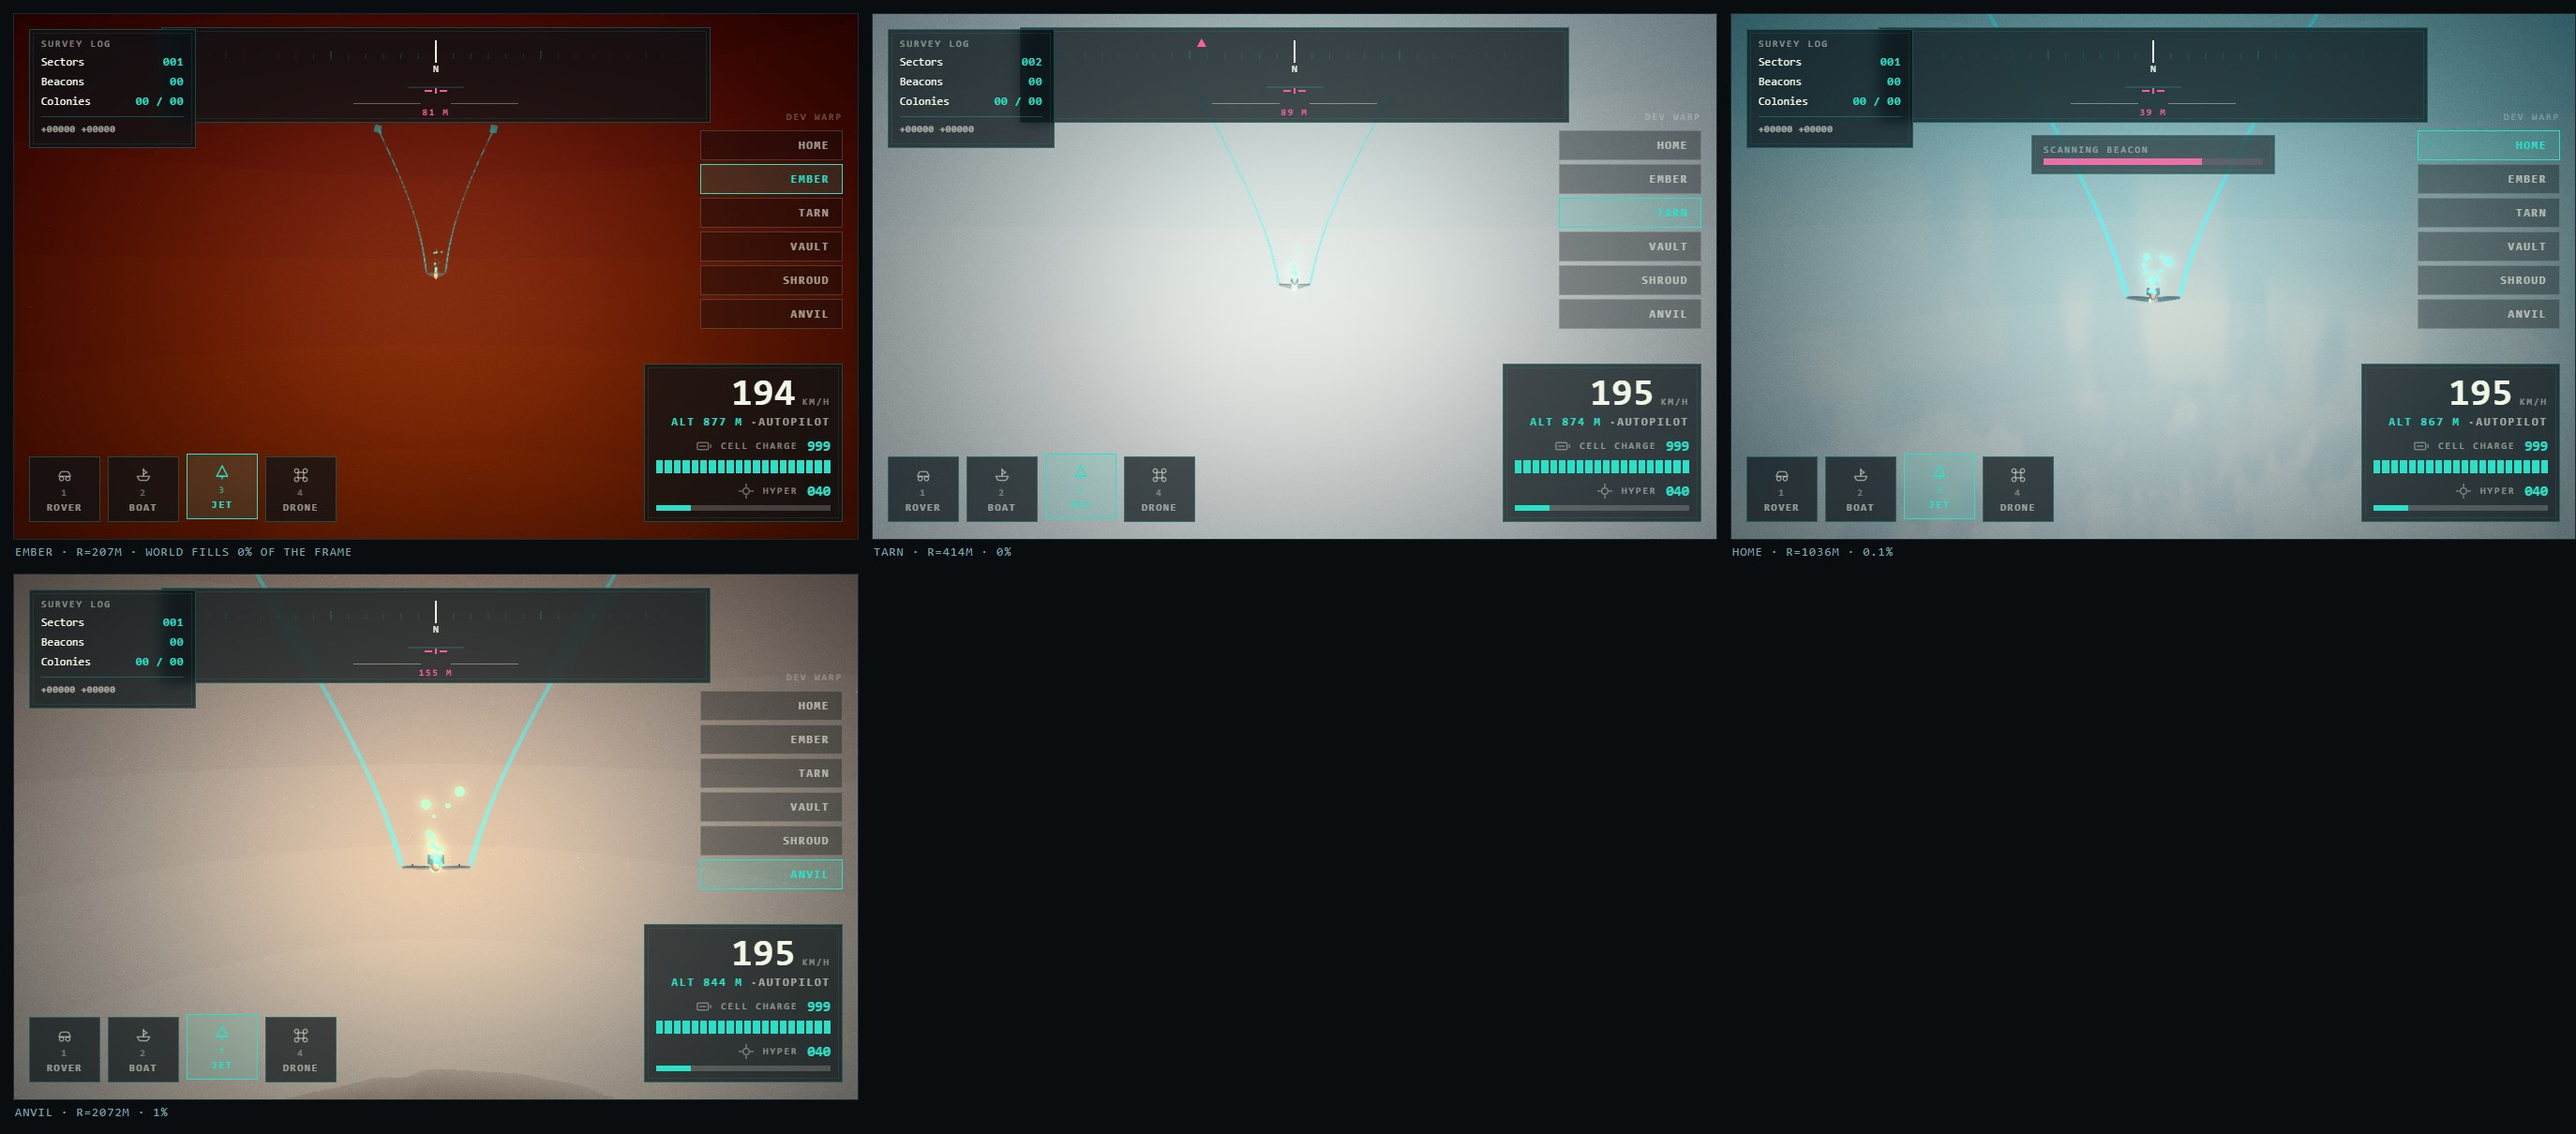
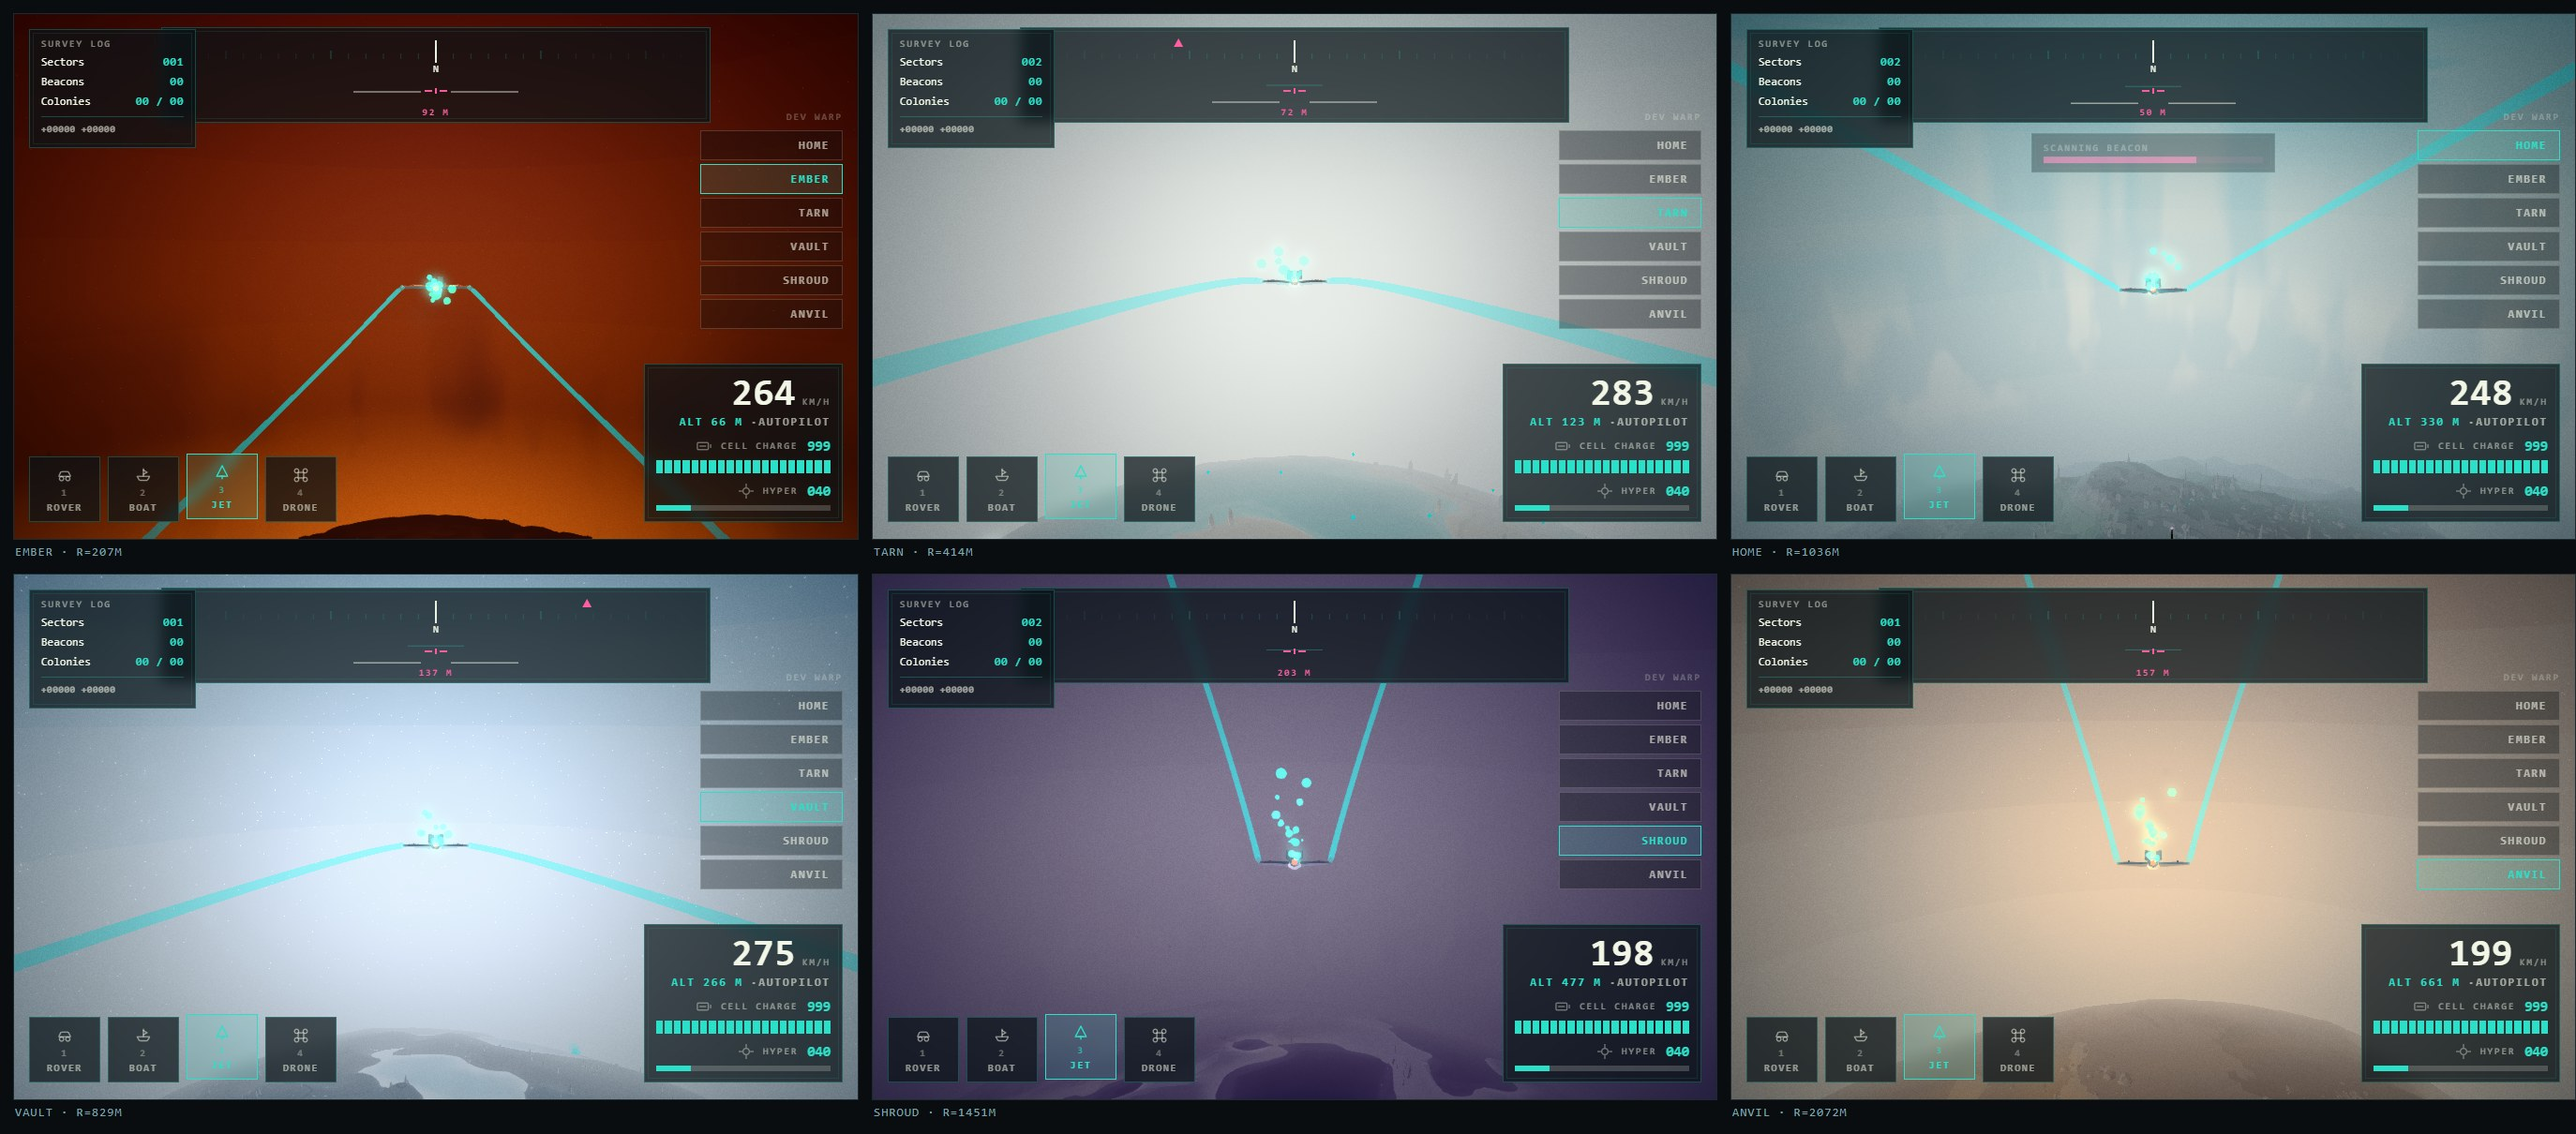
Surveyor: the arrival puts the world in the frame
Spans: <root>, games/surveyor - the fifth instance goes in the CLAUDE.md table
with the other four.

The seat numbers set this: the destination filled 0% to 1% of the frame on a
world you had crossed a solar system to reach. Ember 0%, Tarn 0%, Home 0.1%,
Anvil 1%. What an arrival handed you was sky, your own craft and a readout.

IT IS THE SAME CONSTANT, A FIFTH TIME. With the chase camera looking along the
flight path, a world's limb enters the view at 0.41 to 0.42 radii of altitude -
and it is 0.41 to 0.42 on all six, which is what a scale-free answer looks like.
HYPER.approachAlt is 900m absolute: 0.43 radii on Anvil, 4.35 on Ember. Anvil
arrived with the world just in shot and Ember arrived pointing at empty sky.

THE TWO ALTITUDES WERE NEVER THE SAME THING. The departure boundary has to sit
above the jet's unassisted ceiling so that leaving a world is deliberate, and
that ceiling is in metres for an absolute reason. Where the craft is PUT DOWN
afterwards answers to how big the world looks, which is radii. They only ever
shared a value. ARRIVE.alt is 0.35 radii and is always at or below where the
approach sphere was crossed, so nothing is placed higher than it arrived: 72m on
Ember against 900, 725m on Anvil.

AND THE NOSE IS AIMED RATHER THAN LEVELLED. landOn handed back a flat pitch of
0.10 - a stand-up out of the radial dive the craft actually arrived on, which is
the 84-degree seam phase 3 measured and left. The dive is derived now: the limb
[…]

diff --git a/games/surveyor/js/player/craft.js b/games/surveyor/js/player/craft.js
@@ -12,7 +12,7 @@ import { iceHolds, iceRide } from '../world/water.js';
 import { bodies, advance, steer, pickTarget, centreOf } from '../world/hyper.js';
 import { TransitFrame, landingYaw } from '../world/gravity.js';
 import { ROVER, BOAT, JET, DRONE, FUEL, WORLD, HOP, WHEEL, SUSP, HYPER,
-         AIR, PARACHUTE, SKID } from '../tune.js';
+         AIR, PARACHUTE, SKID, ARRIVE, CAM } from '../tune.js';
 import { emit } from '../core/events.js';
 
 const clamp = (v, a, b) => (v < a ? a : v > b ? b : v);
@@ -470,7 +470,10 @@ export class Craft {
       emit('hyperarrive', {
         key: b.key,
         dir: { x: dx / l, y: dy / l, z: dz / l },
-        alt: HYPER.approachAlt,
+        /* Handed back in RADII, not in metres - see ARRIVE.alt. The
+           sphere was crossed at approachAlt and this is at or below it on
+           every world, so nothing is ever placed higher than it arrived. */
+        alt: Math.min(HYPER.approachAlt, b.radius * ARRIVE.alt),
         speed: this.speed,
       });
     }
@@ -534,11 +537,39 @@ export class Craft {
     this.hyper = null;
     this.hyperT = 0;
     this.bodies = null;
-    this.pos.set(0, alt === undefined ? HYPER.approachAlt : alt, 0);
+    const arriveAlt = alt === undefined ? HYPER.approachAlt : alt;
+    this.pos.set(0, arriveAlt, 0);
     this.speedScalar = Math.min(this.speedScalar, JET.maxSpeed);
     this.speed = this.speedScalar;
     this.vel.set(0, 0, 0);
-    this.pitch = 0.10;
+
+    /* FACING THE WORLD YOU FLEW TO, and this is the point of the whole phase.
+       This used to be a flat `pitch = 0.10`: a stand-up out of the radial dive
+       the craft actually arrived on, so that nobody was handed a nose-down
+       first second on a world they had never seen. It cost the world.
+       Measured from the seat — the chase camera untouched, three quarters of a
+       second after landOn — the destination filled 0% of the frame on Ember
+       and Tarn, 0.1% on Home and 1% on Anvil. At 880m, nose level, the planet
+       is at your NADIR and the boom looks along your heading, so you crossed a
+       solar system and arrived looking at empty sky.
+
+       So the dive is kept, and how much of it is geometry rather than taste:
+       the limb sits (90 degrees - the planet's angular radius) below level, and
+       the view reaches half a field of view past its axis, so the nose has to
+       be down by the difference for the world to be in frame at all. That is
+       15.9 degrees on Anvil and 49.1 on Ember — the same spread as everything
+       else here, and the reason a single number could not have worked.
+       ARRIVE.margin puts it comfortably in rather than just inside the edge,
+       and ARRIVE.maxDive is the ceiling on how steep an arrival is allowed to
+       be however small the world.
+
+       Nothing else has to change to recover it: `assist` below is the autopilot
+       that already exists for exactly this, and it levels the craft out over
+       its own time constant while the world falls away down the frame. */
+    const P = surface.planet;
+    const angR = Math.asin(clamp(P.surfaceR / (P.surfaceR + arriveAlt), -1, 1));
+    this.pitch = clamp((Math.PI / 2 - angR) - CAM.fov.jet * 0.5 + ARRIVE.margin,
+      0.10, ARRIVE.maxDive);
     this.roll = 0;
     this.glide = false;
     this.airborne = false;

diff --git a/games/surveyor/js/tune.js b/games/surveyor/js/tune.js
@@ -1234,6 +1234,48 @@ export const HYPER = {
 };
 
 /**
+ * ARRIVING, as a thing you can see.
+ *
+ * The nose-down angle a hyper arrival hands back is DERIVED, not stated: the
+ * planet's limb sits (90 degrees - its angular radius) below level, and the
+ * view reaches half a field of view past its axis, so the difference is what
+ * it takes to have the world in frame at all. That is 15.9 degrees on Anvil
+ * and 49.1 on Ember. See Craft.landOn. These two are the taste either side of
+ * that geometry.
+ */
+export const ARRIVE = {
+  /* WHERE YOU ARE HANDED BACK, in radii, and this is the fix for the arrival
+     showing you nothing.
+
+     It used to be HYPER.approachAlt - 900 metres, absolute, shared with the
+     departure boundary. Measured: with the chase camera looking along the
+     flight path, a world's limb enters the view at 0.41 to 0.42 radii of
+     altitude, and it is 0.41-0.42 on ALL SIX, which is what a scale-free
+     answer looks like. 900m is 0.43 radii on Anvil and 4.35 on Ember, so
+     Anvil arrived with the world just in shot and Ember arrived pointing at
+     empty sky. Fifth instance of the same pattern; see CLAUDE.md.
+
+     THE TWO NUMBERS ARE NOT THE SAME THING and only ever shared a value. The
+     departure boundary has to sit above the jet's unassisted ceiling so that
+     leaving is deliberate, and that ceiling is in metres - an absolute number
+     for an absolute reason. Where the craft is PUT DOWN afterwards answers to
+     how big the world looks, which is radii. Splitting them costs one line and
+     is always a hand-back at or below where the sphere was crossed, never
+     above it: 0.35R is 72m on Ember against 900, and 725m on Anvil. */
+  alt: 0.35,
+
+  /* How far past "just inside the edge" the limb is put. Without it the world
+     arrives exactly touching the top of the frame, which reads as a mistake
+     rather than as a view. 0.14rad is 8 degrees. */
+  margin: 0.14,
+  /* The ceiling, however small the world. Ember asks for 49 degrees of dive
+     and the geometry would go on asking for more on anything smaller; past
+     about sixty an arrival stops reading as a descent and starts reading as a
+     fall. The autopilot recovers either way - it is the look that sets this. */
+  maxDive: 1.05,        // 60 degrees
+};
+
+/**
  * The neutral grade every world ships with, T1.
  *
  * A LUT is the last thing the frame passes through, and the six palettes here

diff --git a/games/surveyor/dev/shots/seatsheet.html b/games/surveyor/dev/shots/seatsheet.html
@@ -2,8 +2,10 @@
 <title>Surveyor — the arrival, from the seat</title>
 <link rel="stylesheet" href="sheet.css"></head><body>
 <main>
-  <figure><img src="seat-ember.png" alt="ember"><figcaption>Ember · R=207m · world fills 0% of the frame</figcaption></figure>
-  <figure><img src="seat-tarn.png" alt="tarn"><figcaption>Tarn · R=414m · 0%</figcaption></figure>
-  <figure><img src="seat-home.png" alt="home"><figcaption>Home · R=1036m · 0.1%</figcaption></figure>
-  <figure><img src="seat-anvil.png" alt="anvil"><figcaption>Anvil · R=2072m · 1%</figcaption></figure>
+  <figure><img src="seat-ember.png" alt="ember"><figcaption>Ember · R=207m</figcaption></figure>
+  <figure><img src="seat-tarn.png" alt="tarn"><figcaption>Tarn · R=414m</figcaption></figure>
+  <figure><img src="seat-home.png" alt="home"><figcaption>Home · R=1036m</figcaption></figure>
+  <figure><img src="seat-vault.png" alt="vault"><figcaption>Vault · R=829m</figcaption></figure>
+  <figure><img src="seat-shroud.png" alt="shroud"><figcaption>Shroud · R=1451m</figcaption></figure>
+  <figure><img src="seat-anvil.png" alt="anvil"><figcaption>Anvil · R=2072m</figcaption></figure>
 </main></body></html>

diff --git a/games/surveyor/README.md b/games/surveyor/README.md
@@ -588,6 +588,56 @@ now happens on the frame you leave instead of the frame you arrive. Departure is
 the better place for it by a distance — the speed FX are ramping, the streaks
 are up and the frame is already busy — but it is a spike and it is known.
 
+### The arrival puts the world in the frame
+
+The seat numbers said it: the destination filled 0% to 1% of the frame on a
+world you had crossed a solar system to reach. This is the fix.
+
+**It is the same constant, a fifth time.** With the chase camera looking along
+the flight path, a world's limb enters the view at **0.41 to 0.42 radii** of
+altitude — and it is 0.41 to 0.42 on all six, which is what a scale-free answer
+looks like. `HYPER.approachAlt` is 900m absolute, which is 0.43 radii on Anvil
+and **4.35 on Ember**. Anvil arrived with the world just in shot; Ember arrived
+pointing at empty sky.
+
+**The two altitudes were never the same thing.** The departure boundary has to
+sit above the jet's unassisted ceiling so that leaving a world is deliberate,
+and that ceiling is in metres — an absolute number for an absolute reason. Where
+the craft is *put down* afterwards answers to how big the world looks, which is
+radii. They only ever shared a value. `ARRIVE.alt` is 0.35 radii and is always
+at or below where the approach sphere was crossed, so nothing is ever placed
+higher than it arrived: 72m on Ember against 900, 725m on Anvil.
+
+**And the nose is aimed rather than levelled.** `landOn` used to hand back a flat
+`pitch = 0.10` — a stand-up out of the radial dive the craft actually arrived
+on. The dive is derived now: the limb sits (90° − the planet's angular radius)
+below level and the view reaches half a field of view past its axis, so the nose
+goes down by the difference. That is 15.9° on Anvil and 49.1° on Ember. The
+autopilot that already existed for exactly this levels it out afterwards.
+
+| | Ember | Tarn | Home | Vault | Shroud | Anvil |
+|---|---|---|---|---|---|---|
+| before | 0% | 0% | 0.1% | — | — | 1% |
+| after | **2%** | **7.1%** | **7%** | **4.7%** | **3.1%** | **9.2%** |
+
+Those percentages are a **lower bound**, not the picture: the metric counts
+pixels that change when the world's ground and water are hidden, and low-contrast
+ground against its own fog does not clear the threshold. `dev/shots/seat.jpg` is
+what to judge it on — six arrivals, each with a curved horizon, its own ground,
+and the craft descending into it.
+
+**What this does not do** is make the chase camera able to frame a world in
+ordinary flight. It cannot: at a settled 15° descent the view reaches 45° below
+level and a world's limb is further down than that until 0.41 radii, so flying a
+jet over Ember you still never see Ember as a body. The arrival is now inside
+that window by construction. Everywhere else is a camera problem and is not
+this one.
+
+An assertion holds the altitude against the one thing it must not do — the
+arrival clears the tallest ground on every world by a factor of four or more —
+because `ARRIVE.alt` is deliberately low and the failure would be a craft handed
+back inside a mountain.
+
 ### What the step actually is, and who sees it
 
 Two rounds of shader work went into a cause that had not been established. This

diff --git a/CLAUDE.md b/CLAUDE.md
@@ -82,11 +82,11 @@
   image's aspect ratio: that is what makes the caption and filmstrip jump on
   every arrow press.
 
-## A constant correct for the average world is wrong for the small ones (four times)
+## A constant correct for the average world is wrong for the small ones (five times)
 
 `games/surveyor/` has six worlds whose radii run **207m to 2072m**, a factor of
 ten. Every number that is a length has to be asked what it means at both ends,
-and four times now one has not been:
+and five times now one has not been:
 
 | the constant | what it was | what it broke |
 |---|---|---|
@@ -94,6 +94,7 @@ and four times now one has not been:
 | `farPlane` | `R * 4` | on Ember the arrival sat outside it: all 51 live leaves clipped, no world drawn at all |
 | the fog altitude clamp | `2R` | froze the range above it, so Ember over ~400m and Tarn over ~900m went to 100% fog — an arrival into a white-out |
 | the far body's air gate | `2R` | switched the term off at exactly the altitude it was written for, on exactly the worlds that needed it |
+| the arrival altitude | shared `approachAlt`, 900m | the world you flew to filled **0% of the frame** on Ember and Tarn. A limb enters the chase view at 0.41 radii and 900m is 4.35 of them there |
 
 The fog rule carried a second version of the same mistake in its maths rather
 than its constants: `sqrt(2Ra)` for the horizon is the small-angle form and is

diff --git a/games/surveyor/ARCHITECTURE.md b/games/surveyor/ARCHITECTURE.md
@@ -85,6 +85,13 @@ banded cel lighting; there is **no PBRMaterial anywhere**.
 - **If a measurement disagrees with what is visibly on screen, the
   measurement is aimed wrong.** Three times now. (Also: render-cost numbers
   measured on SwiftShader are noise — `dev/budget.mjs` refuses to run there.)
+- **The arrival altitude and the departure boundary are different numbers.**
+  They shared `HYPER.approachAlt` and only ever shared a value. Departure must
+  sit above the jet's ceiling, which is metres for an absolute reason; where
+  the craft is put down answers to how big the world looks, which is radii —
+  `ARRIVE.alt`, 0.35R, always at or below where the sphere was crossed. A
+  world's limb enters the chase view at 0.41-0.42 radii on all six, so 900m
+  absolute framed Anvil and missed Ember by a factor of ten.
 - **Measure who is looking before measuring what changed.** The far-body to
   quadtree handoff was taken apart across most of a session — size, luminance,
   silhouette, three shader terms — and then the arrival was photographed from
